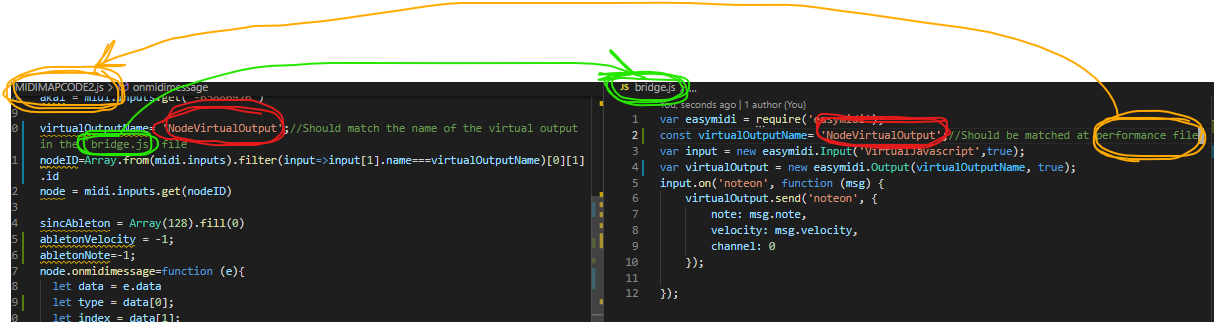
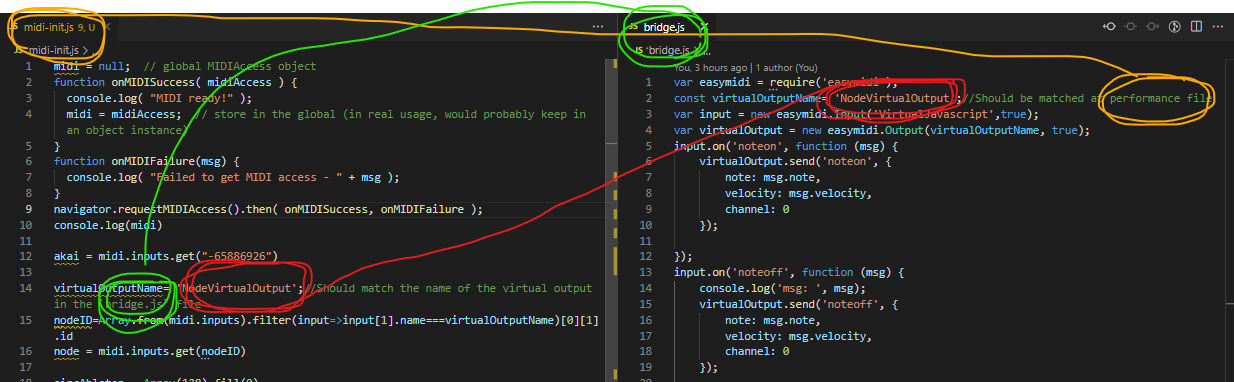
explanations and clarifications

diff --git a/midi-init.js b/midi-init.js
@@ -1,0 +1,37 @@
+midi = null;  // global MIDIAccess object
+function onMIDISuccess( midiAccess ) {
+  console.log( "MIDI ready!" );
+  midi = midiAccess;  // store in the global (in real usage, would probably keep in an object instance)
+}
+function onMIDIFailure(msg) {
+  console.log( "Failed to get MIDI access - " + msg );
+}
+navigator.requestMIDIAccess().then( onMIDISuccess, onMIDIFailure );
+console.log(midi)
+
+akai = midi.inputs.get("-65886926")
+
+virtualOutputName= 'NodeVirtualOutput';//Should match the name of the virtual output in the `bridge.js` file
+nodeID=Array.from(midi.inputs).filter(input=>input[1].name===virtualOutputName)[0][1].id
+node = midi.inputs.get(nodeID)
+
+sincAbleton = Array(128).fill(0)
+abletonVelocity = -1;
+abletonNote=-1;
+node.onmidimessage=function (e){
+  let data = e.data
+  let type = data[0];
+  let index = data[1];
+  abletonNote = index;
+  let velocity = sincAbleton[index] = data[2];
+  abletonVelocity=velocity;
+  console.log('type: ', type,'index : ',index, 'velocity : ', velocity);
+}
+
+sincAkai = Array(128).fill(0)
+akai.onmidimessage=function (e){
+  let data = e.data
+  let index = data[1];
+  let datum = sincAkai[index] = data[2];
+  console.log('index : ',index, 'datum : ', datum);
+};

diff --git a/hydra-example.js b/hydra-example.js
@@ -1,0 +1,28 @@
+osc(()=>sincAbleton[70] , 0.8 , ()=>sincAkai[1]*6/127).out()
+
+//osc(   "velocity"       , 0.1 ,     2                ).out()
+
+//----------------------
+osc(()=>abletonNote , 0.8 , ()=>sincAkai[1]*6/127).out()
+
+//osc(  "note number" , 0.1 ,     2                ).out()
+
+noise(()=>{
+return sincAkai[2]*2+1
+}).out()
+
+noise(1,0.1)
+.color(()=>( sincAkai[1]*0.1+0.5),0.3,0.7)
+.invert(0.1)
+.rotate(2,0.1)
+.kaleid(()=>( sincAkai[2]*0.1+2/127))
+.add(shape(4,0.3,(()=>( sincAkai[3]*0.01+0.3))).modulate(o0)) // Neutron //
+.out()
+
+noise(  ()=>( sincAkai[1]*0.1+1),()=>( sincAkai[2]*0.5/127))
+.kaleid(()=>( sincAkai[3]*0.1+4/127))
+.color(()=>( sincAkai[6]*0.1+0.5),0.2,0.8)
+.add(noise(()=>( sincAkai[4]*0.5+3/127),()=>( sincAkai[5]*0.5+10/127))
+.color(()=>sincAkai[7]*0.1,0.5,1))
+.out()
+

diff --git a/README.md b/README.md
@@ -1,12 +1,86 @@
-Trying out things with midi and [hydra](https://hydra.ojack.xyz/)
+Trying out things with midi and [hydra](https://hydra.ojack.xyz/)... well, really, in hydra in atom, [atom-hydra](https://github.com/ojack/atom-hydra) package.
 
 ## Inspiration
 
 ### Diego Dorado
 
-[diego dorados's gist](https://gist.github.com/diegodorado/dba8791968893b2d321b744b7fb07908)
+[Diego Dorados's gist](https://gist.github.com/diegodorado/dba8791968893b2d321b744b7fb07908)
+
+# Usage with `ableton`
+
+After installing dependency(ies) with ususal 
+
+```
+yarn
+``` 
+command, run
+
+ ```
+ node bridge.js
+ ```
+
+After running that command the virtual input device should be available on `ableton`. In this case the virtual input devices's name is `VirtualJavascript` (needles to say, you can change it). Set preferences so as to make communication possible (We don't really know if the three setings should be turned on)and also make/create a track that sends midi messages to that virtual device, as such:
+
+![virtual input ableton node javascript](./images/virtual-input-ableton-node-javascript.png)
 
 
-## variable name matching
+An then listen in `atom-hydra` with the (usual) `navigator.requestMidiAccess` API. You need to match the virtual output device name as explained in the following section.
 
-![port and or device name matching](./images/port-device-name-matching.png)
+## device name matching
+
+The `bridge.js` scripts recieves the midi messages sent from `ableton` and emits them to the software world through a virtual output device. Then the software that wants to listen to them (in our case `atom-hydra` ) must listen to that device. Upon listening (for example in the `midi-init.js` file) device names should (obviuosly) match, as such:
+
+![device and or device name matching](./images/port-device-name-matching.png)
+
+## Clarification
+Although needles to say, it's said in order of/for clarity: "this is just one particular way of doing things".
+
+A virtual device input is created which recieves midi data form `ableton` and another virtual device output sends it out so that hydra (or any other software) can listen to the messages. This was done in such a  way because we were not able to read direct midi messages from `ableton`.
+
+[easymidi](https://github.com/dinchak/node-easymidi) provides such virtual devices creation. it'sthe only project dependency: couldn't get it to work on windows.
+# Hardware devices controllers
+
+Not just `ableton` can be used. Also midi hardware/devices/controllers may be used. This is done without using the virtual devices bridge thing that is used in the `ableton` case.
+
+## Identify the midi `id` for your device
+
+First gain acces to midi devices and store them in the `midi` global variable, and then execute the code in the `identify-midi.js` file in order to identify the hardware device's `id` in `hydra` in atom. Execute it in the developers console (`cmd+shift+I` in `atom`).
+
+### akai mini mpk mkII case/example
+
+After executing such code in the developers console, copy and paste it into the performance `midiinit.js` file which should be ran in `atom-hydra`
+
+![akai mini mpk mkII midi id identification](./images/akai-mini-mpk-mkII.jpeg)
+
+That was how that strange number got there:
+
+![hardware device id](./images/hardware-device-id.png)
+
+That number is only valid for the `akai MPK Mini mkII`.
+
+### korg nanoKONTROL2 case/example
+
+Here is another image with an example of hardware/device/controller id identification with the `korg nanoKontrol2` device:
+
+![korg nanoKONTRL2 midi id identitification](./images/korg-nanoKONTROL2.png)
+
+### The `ableton` case
+
+In the `ableton` case this is done automatically and depends on the virtual device naming as explained in the section [above](#device-name-matching).
+
+## Hydra usage
+
+Again, needles to say, the way you use midi messages is up to you, but this is how it's done here:
+
+After runnig the code in the `midi-init.js` file in `atom-hydra`, one can use the some globally scoped variables to control hydra synths/functions parameters/arguments: This variables are:
+
+-  `sincAbleton`
+-  `abletonNote`
+-  `sincAkai`
+-  `abletonVelocity`
+
+In the `hydra-live.js` file there are examples of how to use them.
+
+# Further clarification
+
+The author's mind of this `README.md` file (and of the most of this repo) is a mess: everything is easier than described in this file and, overall, midi messaging with web technologies is much easier than the approach taken here. We didn't try hard enough to read messages from ableton directly without the use of virtual midi ports.
